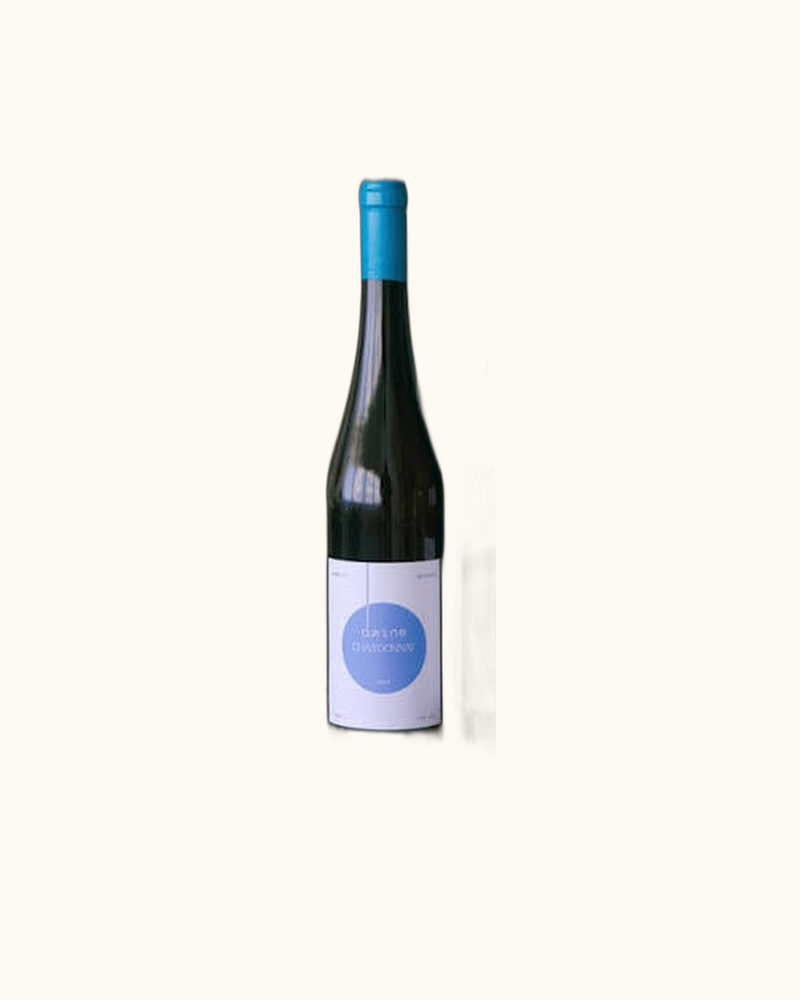
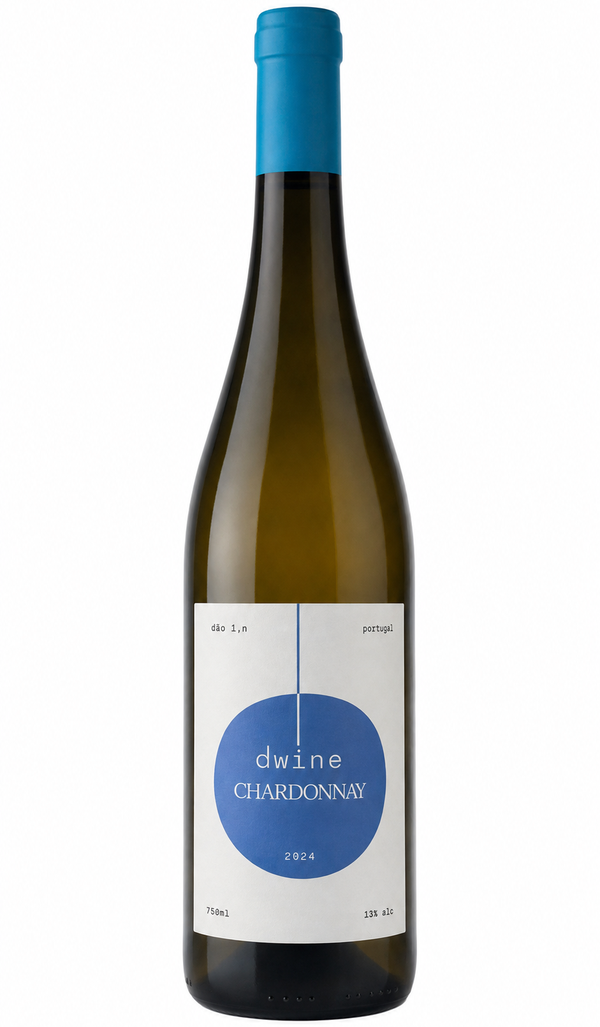
Wine list: real bottle photos for all 28 wines, add 3B Espumantes section, remove D'Wine Rosé

Changed region(s): [[0.3, 0.0, 0.72, 1.0]]

diff --git a/vinhos.html b/vinhos.html
@@ -642,17 +642,17 @@ const MENU_DATA = [
     subtitulo: "Da vinha ao copo, frescura e elegância",
     icone: "🍷",
     items: [
-      { id:78, nome:"Amnesia", preco:15.00, descricao:"Alentejo", tag:"Vinho", imagemUrl:"wines/amnesia-white.svg", imgClass:"img-contain" },
+      { id:78, nome:"Amnesia", preco:15.00, descricao:"Alentejo", tag:"Vinho", imagemUrl:"wineimg_final/amnesia-branco.png", imgClass:"img-contain" },
       { id:79, nome:"Bulas", preco:17.00, descricao:"Vinho branco", tag:"Vinho", imagemUrl:"wineimg_final/bulas-branco.png", imgClass:"img-cover" },
-      { id:80, nome:"Caladesa", preco:16.00, descricao:"Vinho branco", tag:"Vinho", imagemUrl:"wines/caladesa.svg", imgClass:"img-contain" },
-      { id:81, nome:"D'Wine Sauvignon Blanc", preco:16.00, descricao:"Famalicão", tag:"Vinho", imagemUrl:"wineimg_final/dwine-sauvignon.png", imgClass:"img-cover" },
-      { id:82, nome:"D'Wine Chardonnay", preco:16.00, descricao:"Vinho branco", tag:"Vinho", imagemUrl:"wineimg_final/dwine-chardonnay.png", imgClass:"img-cover" },
-      { id:83, nome:"Lacrau Moscatel Galego", preco:19.00, descricao:"Douro", tag:"Vinho", imagemUrl:"wines/lacrau-moscatel.svg", imgClass:"img-contain" },
-      { id:84, nome:"Chocopalha Chardonnay", preco:18.00, descricao:"Lisboa", tag:"Vinho", imagemUrl:"wines/chocopalha-chardonnay.svg", imgClass:"img-contain" },
+      { id:80, nome:"Caladesa", preco:16.00, descricao:"Vinho branco", tag:"Vinho", imagemUrl:"wineimg_final/caladesa.png", imgClass:"img-contain" },
+      { id:81, nome:"D'Wine Sauvignon Blanc", preco:16.00, descricao:"Famalicão", tag:"Vinho", imagemUrl:"wineimg_final/dwine-sauvignon.png", imgClass:"img-contain" },
+      { id:82, nome:"D'Wine Chardonnay", preco:16.00, descricao:"Vinho branco", tag:"Vinho", imagemUrl:"wineimg_final/dwine-chardonnay.png", imgClass:"img-contain" },
+      { id:83, nome:"Lacrau Moscatel Galego", preco:19.00, descricao:"Douro", tag:"Vinho", imagemUrl:"wineimg_final/lacrau-moscatel.png", imgClass:"img-contain" },
+      { id:84, nome:"Chocopalha Chardonnay", preco:18.00, descricao:"Lisboa", tag:"Vinho", imagemUrl:"wineimg_final/chocopalha-chardonnay.png", imgClass:"img-contain" },
       { id:85, nome:"Dona Maria", preco:20.00, descricao:"Alentejo", tag:"Vinho", imagemUrl:"wineimg_final/dona-maria-branco.png", imgClass:"img-cover" },
       { id:86, nome:"Nã Te Rales", preco:17.00, descricao:"Alentejo", tag:"Vinho", imagemUrl:"wineimg_final/na-te-rales-branco.png", imgClass:"img-cover" },
-      { id:87, nome:"Manoella", preco:23.00, descricao:"Vinho branco", tag:"Vinho", imagemUrl:"wines/manoella-white.svg", imgClass:"img-contain" },
-      { id:88, nome:"Quinta de Saes Encruzado", preco:23.00, descricao:"Vinho branco", tag:"Vinho", imagemUrl:"wines/quinta-saes-encruzado.svg", imgClass:"img-contain" },
+      { id:87, nome:"Manoella", preco:23.00, descricao:"Vinho branco", tag:"Vinho", imagemUrl:"wineimg_final/manoella-branco.png", imgClass:"img-contain" },
+      { id:88, nome:"Quinta de Saes Encruzado", preco:23.00, descricao:"Vinho branco", tag:"Vinho", imagemUrl:"wineimg_final/quinta-saes-encruzado.png", imgClass:"img-contain" },
     ]
   },
   {
@@ -660,18 +660,18 @@ const MENU_DATA = [
     subtitulo: "Corpo, carácter e história em cada garrafa",
     icone: "🍷",
     items: [
-      { id:89, nome:"Amnesia", preco:15.00, descricao:"Alentejo", tag:"Vinho", imagemUrl:"wines/amnesia-red.svg", imgClass:"img-contain" },
+      { id:89, nome:"Amnesia", preco:15.00, descricao:"Alentejo", tag:"Vinho", imagemUrl:"wineimg_final/amnesia-tinto.png", imgClass:"img-contain" },
       { id:90, nome:"Bulas", preco:17.00, descricao:"Vinho tinto", tag:"Vinho", imagemUrl:"wineimg_final/bulas-tinto.png", imgClass:"img-cover" },
-      { id:91, nome:"Vinha Paz", preco:20.00, descricao:"Dão", tag:"Vinho", imagemUrl:"wines/vinha-paz.svg", imgClass:"img-contain" },
+      { id:91, nome:"Vinha Paz", preco:20.00, descricao:"Dão", tag:"Vinho", imagemUrl:"wineimg_final/vinha-paz.png", imgClass:"img-contain" },
       { id:92, nome:"Alento", preco:18.00, descricao:"Vinho tinto", tag:"Vinho", imagemUrl:"wineimg_final/alento-tinto.png", imgClass:"img-cover" },
       { id:93, nome:"Nã Te Rales", preco:16.00, descricao:"Alentejo", tag:"Vinho", imagemUrl:"wineimg_final/na-te-rales-tinto.png", imgClass:"img-cover" },
       { id:94, nome:"Dona Maria", preco:25.00, descricao:"Alentejo", tag:"Vinho", imagemUrl:"wineimg_final/dona-maria-tinto.png", imgClass:"img-cover" },
-      { id:95, nome:"Dona Maria Grande Reserva", preco:60.00, descricao:"Alentejo", tag:"Vinho", imagemUrl:"wines/dona-maria-gr.svg", imgClass:"img-contain" },
-      { id:96, nome:"Passagem", preco:28.00, descricao:"Douro", tag:"Vinho", imagemUrl:"wines/passagem.svg", imgClass:"img-contain" },
-      { id:97, nome:"Manoella", preco:28.00, descricao:"Douro", tag:"Vinho", imagemUrl:"wines/manoella-red.svg", imgClass:"img-contain" },
-      { id:98, nome:"Bulas Reserva", preco:22.00, descricao:"Vinho tinto", tag:"Vinho", imagemUrl:"wines/bulas-reserva.svg", imgClass:"img-contain" },
-      { id:99, nome:"Poeira", preco:60.00, descricao:"Vinho tinto", tag:"Vinho", imagemUrl:"wines/poeira.svg", imgClass:"img-contain" },
-      { id:100, nome:"Pintas Character", preco:35.00, descricao:"Vinho tinto", tag:"Vinho", imagemUrl:"wines/pintas-character.svg", imgClass:"img-contain" },
+      { id:95, nome:"Dona Maria Grande Reserva", preco:60.00, descricao:"Alentejo", tag:"Vinho", imagemUrl:"wineimg_final/dona-maria-gr.png", imgClass:"img-contain" },
+      { id:96, nome:"Passagem", preco:28.00, descricao:"Douro", tag:"Vinho", imagemUrl:"wineimg_final/passagem.png", imgClass:"img-contain" },
+      { id:97, nome:"Manoella", preco:28.00, descricao:"Douro", tag:"Vinho", imagemUrl:"wineimg_final/manoella-tinto.png", imgClass:"img-contain" },
+      { id:98, nome:"Bulas Reserva", preco:22.00, descricao:"Vinho tinto", tag:"Vinho", imagemUrl:"wineimg_final/bulas-reserva.png", imgClass:"img-contain" },
+      { id:99, nome:"Poeira", preco:60.00, descricao:"Vinho tinto", tag:"Vinho", imagemUrl:"wineimg_final/poeira.png", imgClass:"img-contain" },
+      { id:100, nome:"Pintas Character", preco:35.00, descricao:"Vinho tinto", tag:"Vinho", imagemUrl:"wineimg_final/pintas-character.png", imgClass:"img-contain" },
     ]
   },
   {
@@ -679,11 +679,19 @@ const MENU_DATA = [
     subtitulo: "Suaves e sedutores, para os dias de sol",
     icone: "🍷",
     items: [
-      { id:101, nome:"D'Wine Rosé", preco:16.00, descricao:"Vinho rosé", tag:"Vinho", imagemUrl:"wines/dwine-rose.svg", imgClass:"img-contain" },
-      { id:102, nome:"Quinta de Saes", preco:16.00, descricao:"Dão", tag:"Vinho", imagemUrl:"wines/quinta-saes-rose.svg", imgClass:"img-contain" },
-      { id:103, nome:"Lacrau", preco:17.00, descricao:"Vinho rosé", tag:"Vinho", imagemUrl:"wines/lacrau-rose.svg", imgClass:"img-contain" },
+      { id:102, nome:"Quinta de Saes", preco:16.00, descricao:"Dão", tag:"Vinho", imagemUrl:"wineimg_final/quinta-saes-rose.png", imgClass:"img-contain" },
+      { id:103, nome:"Lacrau", preco:17.00, descricao:"Vinho rosé", tag:"Vinho", imagemUrl:"wineimg_final/lacrau-rose.png", imgClass:"img-contain" },
       { id:104, nome:"Dona Maria Rosé", preco:20.00, descricao:"Vinho rosé", tag:"Vinho", imagemUrl:"wineimg_final/dona-maria-rose.png", imgClass:"img-cover" },
-      { id:105, nome:"Minuty", preco:26.00, descricao:"França", tag:"Vinho", imagemUrl:"wines/minuty.svg", imgClass:"img-contain" },
+      { id:105, nome:"Minuty", preco:26.00, descricao:"França", tag:"Vinho", imagemUrl:"wineimg_final/minuty.png", imgClass:"img-contain" },
+    ]
+  },
+  {
+    id: "vinhos-espumantes", nome: "Vinhos Espumantes",
+    subtitulo: "Bolhas para os momentos de celebração",
+    icone: "🍾",
+    items: [
+      { id:106, nome:"3B Blanc de Blancs", descricao:"Bairrada", tag:"Vinho", precoReview:true, imagemUrl:"wineimg_final/3b-blanc-de-blancs.png", imgClass:"img-contain" },
+      { id:107, nome:"3B Rosé", descricao:"Bairrada", tag:"Vinho", precoReview:true, imagemUrl:"wineimg_final/3b-rose.png", imgClass:"img-contain" },
     ]
   },
 ];
@@ -703,7 +711,7 @@ function cardHTML(item) {
         <h3 class="card-name">${item.nome}</h3>
         <p class="card-desc">${itemDesc(item)}</p>
         <div class="card-footer">
-          <span class="card-price">${fmt(item.preco)}${item.unidade ? '/' + item.unidade : ''}</span>
+          <span class="card-price">${item.precoReview ? uiTxt('priceReview') : fmt(item.preco) + (item.unidade ? '/' + item.unidade : '')}</span>
           <span class="card-tag">${tagTxt(item.tag)}</span>
         </div>
       </div>
@@ -803,6 +811,16 @@ const SECTION_ICONS = {
     <path d="M25,30 L25,40"/>
     <path d="M17,46 L33,46"/>
     <circle cx="25" cy="16" r="2.5"/>
+  </svg>`,
+  'vinhos-espumantes': `<svg class="section-icon" viewBox="0 0 64 56" fill="none" stroke="#1B2B4B" stroke-width="3" stroke-linecap="round" stroke-linejoin="round" aria-hidden="true">
+    <path d="M22,6 L40,6 L36,20 L26,20 Z"/>
+    <path d="M26,20 L26,30"/>
+    <path d="M22,30 C22,36 40,36 40,30 Z"/>
+    <path d="M27,12 L31,12"/>
+    <path d="M28,16 L34,16"/>
+    <circle cx="28" cy="40" r="1.5"/>
+    <circle cx="34" cy="44" r="1.5"/>
+    <circle cx="30" cy="48" r="1.5"/>
   </svg>`,
   sobremesas: `<svg class="section-icon" viewBox="0 0 64 56" fill="none" stroke="#1B2B4B" stroke-width="3" stroke-linecap="round" stroke-linejoin="round" aria-hidden="true">
     <path d="M12,44 L38,44 L25,14 Z"/>

diff --git a/i18n.js b/i18n.js
@@ -32,6 +32,7 @@ const UI_PT = {
   langLabel:   'Idioma',
   backToMenu:  'Voltar à ementa',
   winesNav:     'Vinhos',
+  priceReview:  'Para rever',
   footerMsg:   'Feito com carinho, servido com orgulho. Obrigado por nos escolher.'
 };
 
@@ -47,6 +48,7 @@ en: {
     langLabel: 'Language',
     backToMenu: 'Back to menu',
     winesNav:     'Wines',
+    priceReview: 'For review',
     footerMsg: 'Made with care, served with pride. Thank you for choosing us.'
   },
   sections: {
@@ -58,6 +60,7 @@ en: {
     'vinhos-brancos': { nome: 'White Wines', subtitulo: 'From the vine to the glass, freshness and elegance' },
     'vinhos-tintos':   { nome: 'Red Wines', subtitulo: 'Body, character and history in every bottle' },
     'vinhos-roses':    { nome: 'Rosé Wines', subtitulo: 'Soft and seductive, for sunny days' },
+    'vinhos-espumantes': { nome: 'Sparkling Wines', subtitulo: 'Bubbles for the joyful moments' },
     'bebidas-sem-alcool': { nome: 'Non-Alcoholic',    subtitulo: 'Refreshment without compromise' },
     sobremesas:        { nome: 'Desserts',            subtitulo: 'Calm after the tide' }
   },
@@ -167,6 +170,8 @@ en: {
     103: { desc: 'Vinho rosé' },
     104: { desc: 'Vinho rosé' },
     105: { desc: 'França' },
+    106: { desc: 'Bairrada' },
+    107: { desc: 'Bairrada' },
   },
   tags: {
     'Para Começar': 'To Start', Entrada: 'Starter', Destaque: 'Featured', Clássico: 'Classic',
@@ -189,6 +194,7 @@ fr: {
     langLabel: 'Langue',
     backToMenu: 'Retour au menu',
     winesNav:     'Vins',
+    priceReview: 'À revoir',
     footerMsg: 'Fait avec soin, servi avec fierté. Merci de nous avoir choisis.'
   },
   sections: {
@@ -200,6 +206,7 @@ fr: {
     'vinhos-brancos': { nome: 'Vins Blancs', subtitulo: 'De la vigne au verre, fraîcheur et élégance' },
     'vinhos-tintos':   { nome: 'Vins Rouges', subtitulo: 'Corps, caractère et histoire dans chaque bouteille' },
     'vinhos-roses':    { nome: 'Vins Rosés', subtitulo: 'Douces et séduisantes, pour les jours ensoleillés' },
+    'vinhos-espumantes': { nome: 'Vins Effervescents', subtitulo: 'Des bulles pour les moments de joie' },
     'bebidas-sem-alcool': { nome: 'Sans Alcool',       subtitulo: 'Fraîcheur sans compromis' },
     sobremesas:        { nome: 'Desserts',             subtitulo: 'Le calme après la marée' }
   },
@@ -309,6 +316,8 @@ fr: {
     103: { desc: 'Vinho rosé' },
     104: { desc: 'Vinho rosé' },
     105: { desc: 'França' },
+    106: { desc: 'Bairrada' },
+    107: { desc: 'Bairrada' },
   },
   tags: {
     'Para Começar': 'Pour Commencer', Entrada: 'Entrée', Destaque: 'Signature', Clássico: 'Classique',
@@ -330,6 +339,7 @@ es: {
     langLabel: 'Idioma',
     backToMenu: 'Volver al menú',
     winesNav:     'Vinos',
+    priceReview: 'Para revisar',
     footerMsg: 'Hecho con cariño, servido con orgullo. Gracias por elegirnos.'
   },
   sections: {
@@ -341,6 +351,7 @@ es: {
     'vinhos-brancos': { nome: 'Vinos Blancos', subtitulo: 'De la viña al vaso, frescura y elegancia' },
     'vinhos-tintos':   { nome: 'Vinos Tintos', subtitulo: 'Cuerpo, carácter e historia en cada botella' },
     'vinhos-roses':    { nome: 'Vinos Rosados', subtitulo: 'Suaves y seductoras, para días de sol' },
+    'vinhos-espumantes': { nome: 'Vinos Espumosos', subtitulo: 'Burbujas para los momentos alegres' },
     'bebidas-sem-alcool': { nome: 'Sin Alcohol',        subtitulo: 'Frescura sin compromisos' },
     sobremesas:        { nome: 'Postres',               subtitulo: 'La calma después de la marea' }
   },
@@ -450,6 +461,8 @@ es: {
     103: { desc: 'Vinho rosé' },
     104: { desc: 'Vinho rosé' },
     105: { desc: 'França' },
+    106: { desc: 'Bairrada' },
+    107: { desc: 'Bairrada' },
   },
   tags: {
     'Para Começar': 'Para Empezar', Entrada: 'Entrante', Destaque: 'Destacado', Clássico: 'Clásico',
@@ -472,6 +485,7 @@ it: {
     langLabel: 'Lingua',
     backToMenu: 'Torna al menu',
     winesNav:     'Vini',
+    priceReview: 'Da rivedere',
     footerMsg: 'Fatto con cura, servito con orgoglio. Grazie per averci scelto.'
   },
   sections: {
@@ -483,6 +497,7 @@ it: {
     'vinhos-brancos': { nome: 'Vini Bianchi', subtitulo: 'Dalla vigna al calice, freschezza ed eleganza' },
     'vinhos-tintos':   { nome: 'Vini Rossi', subtitulo: 'Corpo, carattere e storia in ogni bottiglia' },
     'vinhos-roses':    { nome: 'Vini Rosati', subtitulo: 'Delicati e seducenti, per le giornate di sole' },
+    'vinhos-espumantes': { nome: 'Vini Spumanti', subtitulo: 'Bollicine per i momenti di gioia' },
     'bebidas-sem-alcool': { nome: 'Analcolici',         subtitulo: 'Freschezza senza compromessi' },
     sobremesas:        { nome: 'Dolci',                 subtitulo: 'La calma dopo la marea' }
   },
@@ -592,6 +607,8 @@ it: {
     103: { desc: 'Vinho rosé' },
     104: { desc: 'Vinho rosé' },
     105: { desc: 'França' },
+    106: { desc: 'Bairrada' },
+    107: { desc: 'Bairrada' },
   },
   tags: {
     'Para Começar': 'Per Iniziare', Entrada: 'Antipasto', Destaque: 'In Evidenza', Clássico: 'Classico',
@@ -613,6 +630,7 @@ de: {
     langLabel: 'Sprache',
     backToMenu: 'Zurück zum Menü',
     winesNav:     'Weine',
+    priceReview: 'Zur Überprüfung',
     footerMsg: 'Mit Sorgfalt zubereitet, mit Stolz serviert. Danke, dass Sie uns gewählt haben.'
   },
   sections: {
@@ -624,6 +642,7 @@ de: {
     'vinhos-brancos': { nome: 'Weißweine', subtitulo: 'Vom Weinstock ins Glas, Frische und Eleganz' },
     'vinhos-tintos':   { nome: 'Rotweine', subtitulo: 'Körper, Charakter und Geschichte in jeder Flasche' },
     'vinhos-roses':    { nome: 'Roséweine', subtitulo: 'Sanft und verführerisch, für sonnige Tage' },
+    'vinhos-espumantes': { nome: 'Schaumweine', subtitulo: 'Bläschen für die fröhlichen Momente' },
     'bebidas-sem-alcool': { nome: 'Alkoholfrei',       subtitulo: 'Erfrischung ohne Kompromisse' },
     sobremesas:        { nome: 'Nachspeisen',          subtitulo: 'Die Ruhe nach der Flut' }
   },
@@ -733,6 +752,8 @@ de: {
     103: { desc: 'Vinho rosé' },
     104: { desc: 'Vinho rosé' },
     105: { desc: 'França' },
+    106: { desc: 'Bairrada' },
+    107: { desc: 'Bairrada' },
   },
   tags: {
     'Para Começar': 'Zum Start', Entrada: 'Vorspeise', Destaque: 'Empfohlen', Clássico: 'Klassiker',
@@ -755,6 +776,7 @@ zh: {
     langLabel: '语言',
     backToMenu: '返回菜单',
     winesNav:     '葡萄酒',
+    priceReview: '待确认',
     footerMsg: '用心烹制，自豪呈献。感谢您的选择。'
   },
   sections: {
@@ -766,6 +788,7 @@ zh: {
     'vinhos-brancos': { nome: '白葡萄酒', subtitulo: '从葡萄园到杯中，清新优雅' },
     'vinhos-tintos':   { nome: '红葡萄酒', subtitulo: '每一瓶都充满酒体、个性与历史' },
     'vinhos-roses':    { nome: '桃红葡萄酒', subtitulo: '柔和迷人，适合阳光明媚的日子' },
+    'vinhos-espumantes': { nome: '起泡葡萄酒', subtitulo: '为欢乐时刻而生的气泡' },
     'bebidas-sem-alcool': { nome: '无酒精饮品',        subtitulo: '畅快清爽，毫不妥协' },
     sobremesas:        { nome: '甜品',                 subtitulo: '潮水退去后的宁静' }
   },
@@ -875,6 +898,8 @@ zh: {
     103: { desc: 'Vinho rosé' },
     104: { desc: 'Vinho rosé' },
     105: { desc: 'França' },
+    106: { desc: 'Bairrada' },
+    107: { desc: 'Bairrada' },
   },
   tags: {
     'Para Começar': '开胃', Entrada: '前菜', Destaque: '招牌', Clássico: '经典',
@@ -896,6 +921,7 @@ uk: {
     langLabel: 'Мова',
     backToMenu: 'Повернутися до меню',
     winesNav:     'Вина',
+    priceReview: 'На розгляд',
     footerMsg: 'Приготовано з турботою, подано з гордістю. Дякуємо, що обрали нас.'
   },
   sections: {
@@ -907,6 +933,7 @@ uk: {
     'vinhos-brancos': { nome: 'Білі вина', subtitulo: 'Від лози до келиха, свіжість і елегантність' },
     'vinhos-tintos':   { nome: 'Червоні вина', subtitulo: 'Тіло, характер та історія в кожній пляшці' },
     'vinhos-roses':    { nome: 'Рожеві вина', subtitulo: 'Ніжні та спокусливі, для сонячних днів' },
+    'vinhos-espumantes': { nome: 'Ігристі вина', subtitulo: 'Бульбашки для радісних моментів' },
     'bebidas-sem-alcool': { nome: 'Безалкогольні',    subtitulo: 'Освіження без компромісів' },
     sobremesas:        { nome: 'Десерти',            subtitulo: 'Спокій після припливу' }
   },
@@ -1016,6 +1043,8 @@ uk: {
     103: { desc: 'Vinho rosé' },
     104: { desc: 'Vinho rosé' },
     105: { desc: 'França' },
+    106: { desc: 'Bairrada' },
+    107: { desc: 'Bairrada' },
   },
   tags: {
     'Para Começar': 'На початок', Entrada: 'Закуска', Destaque: 'Хіт', Clássico: 'Класика',
